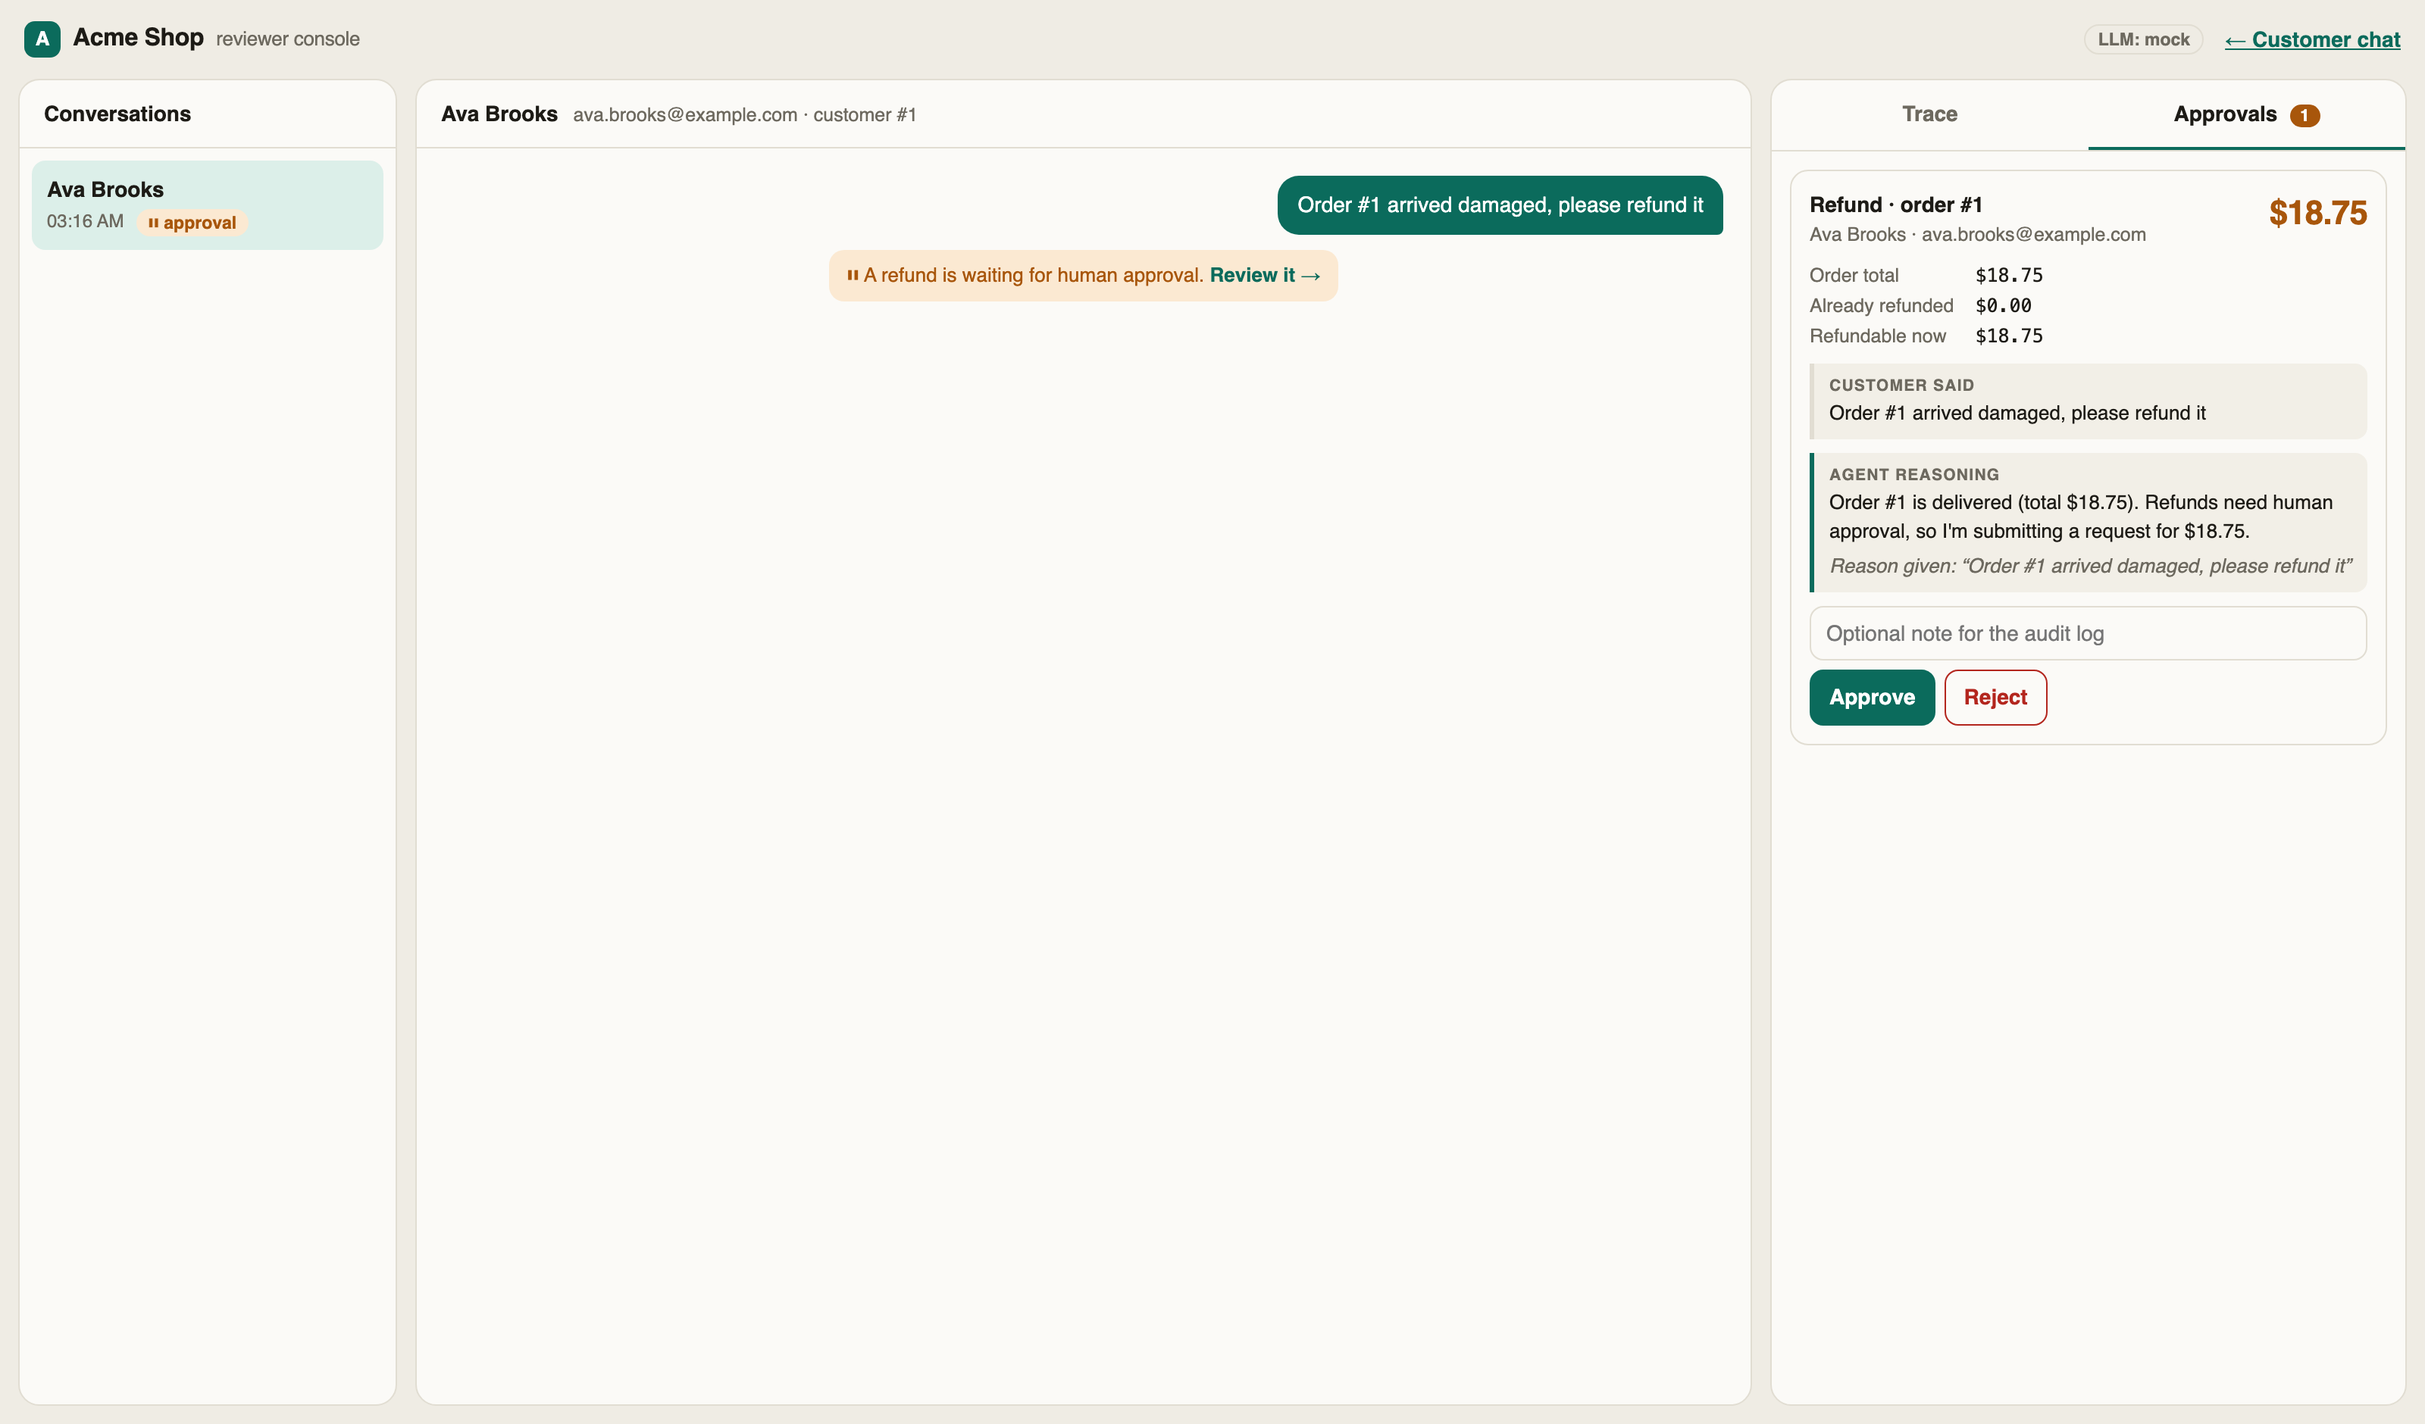
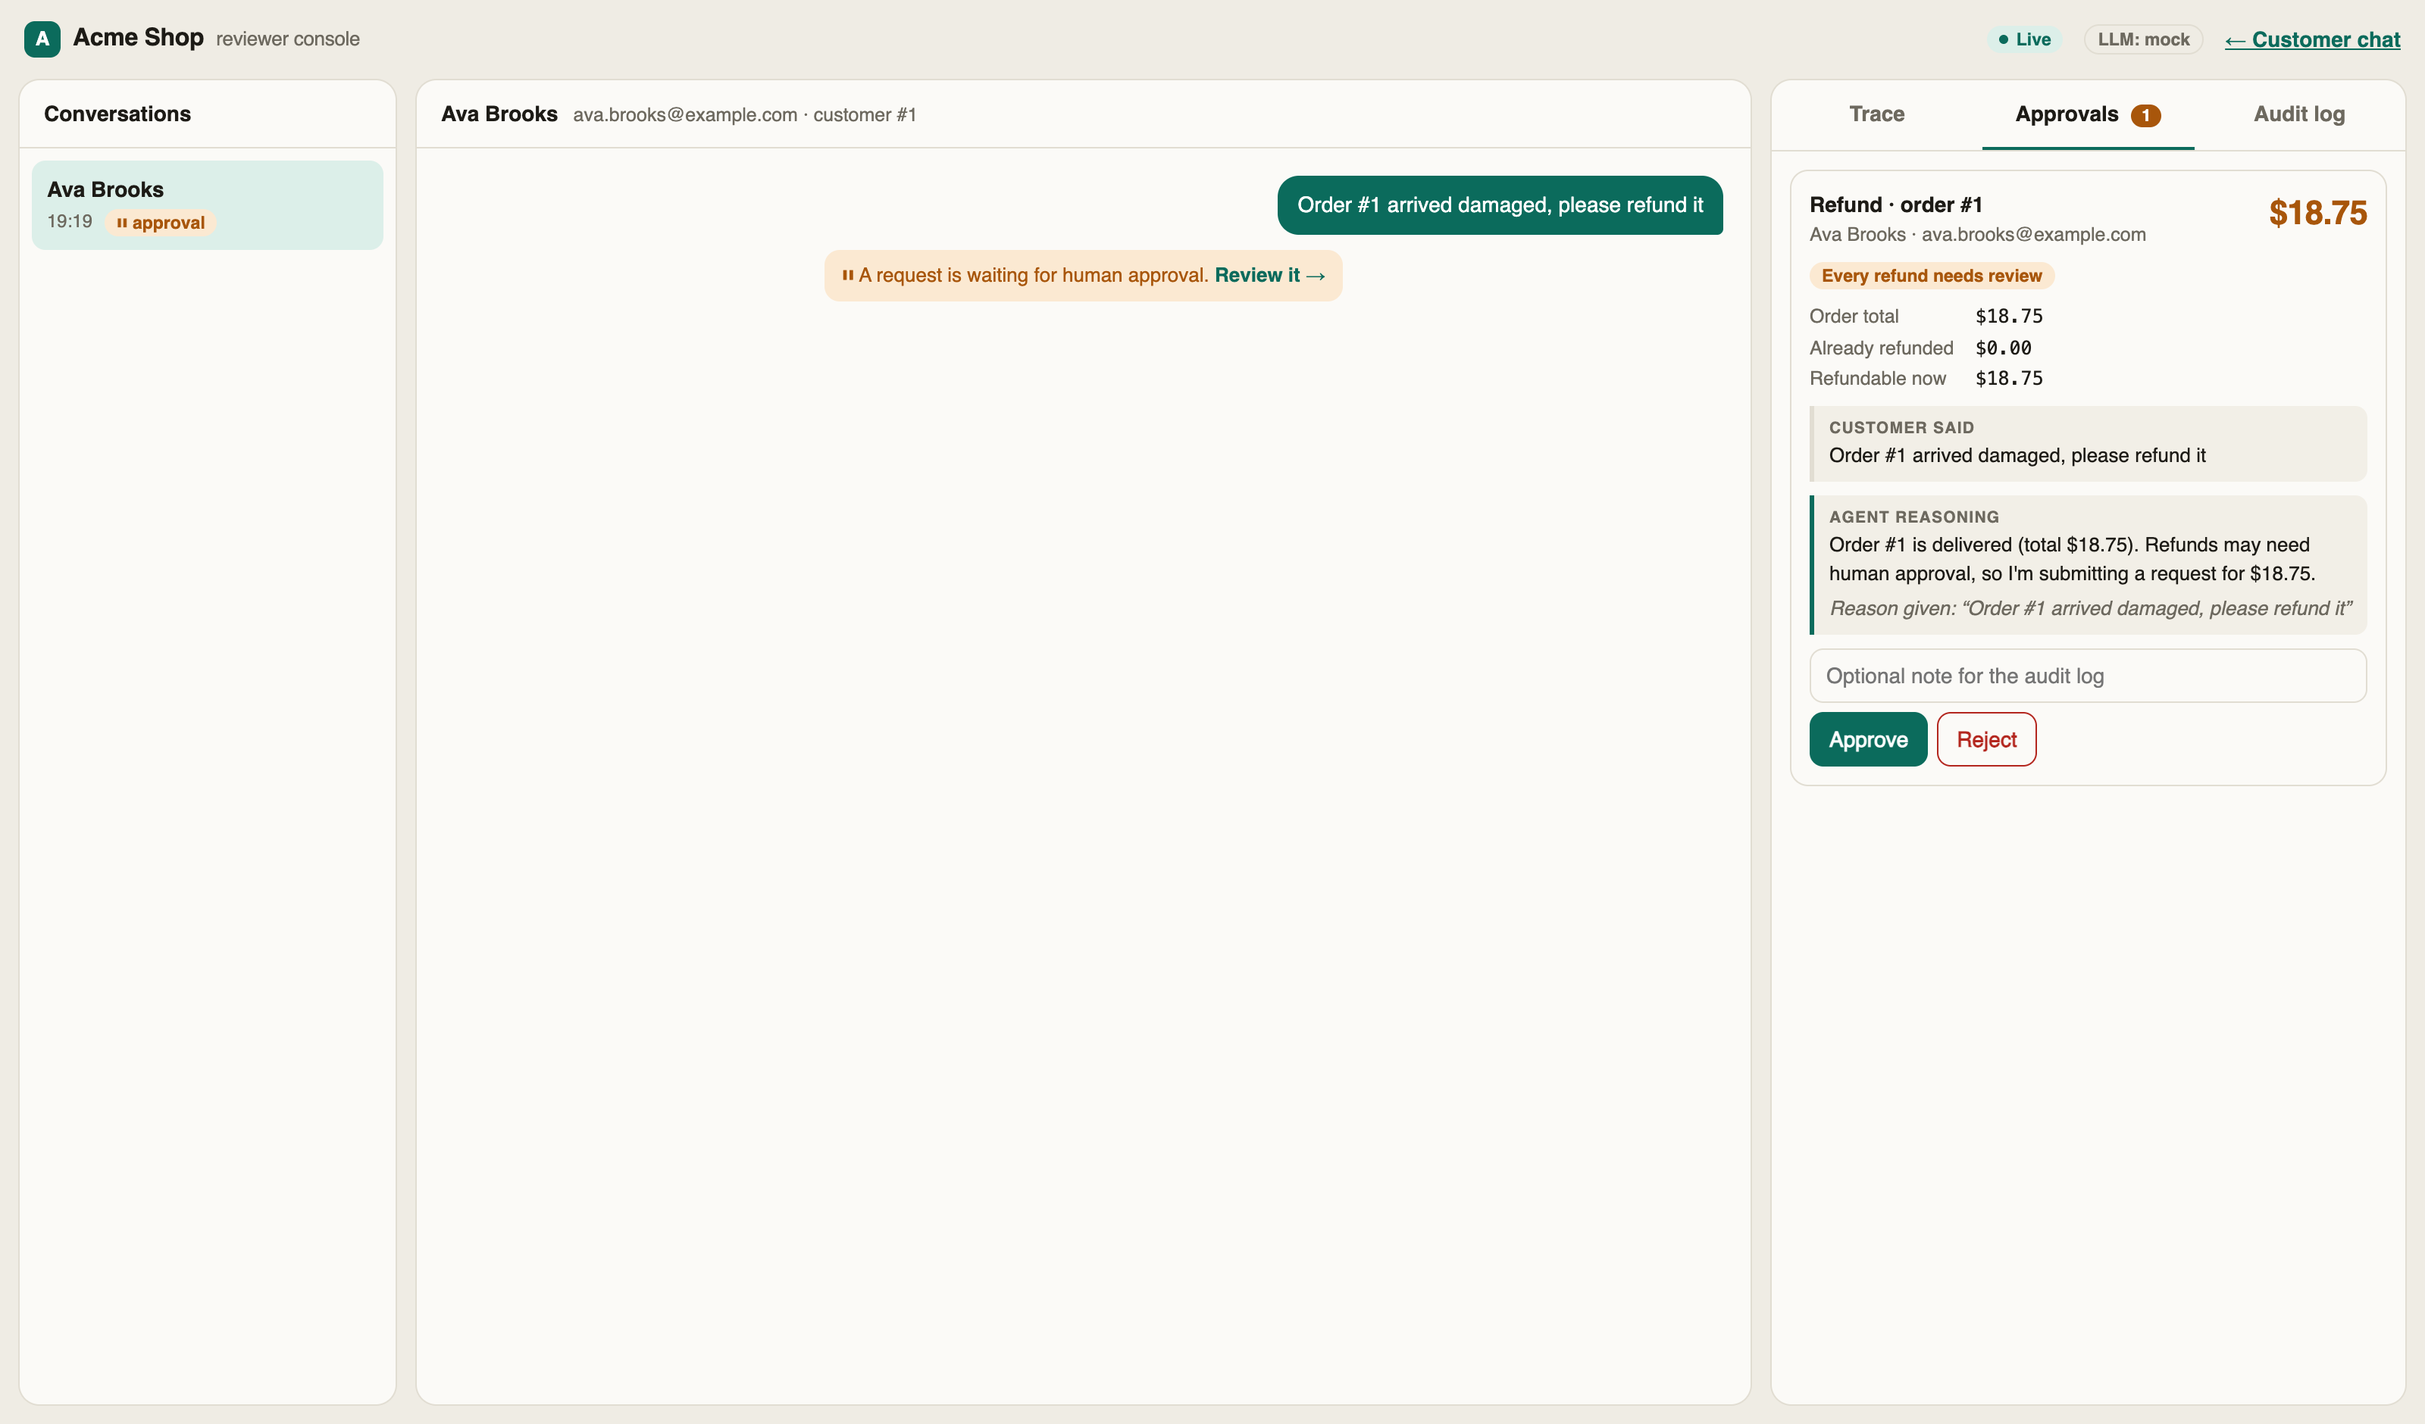
Live-update browser tests, refreshed screenshots and the portfolio README (P.4)
- Playwright: the Live chip, a reviewer's decision reaching an open chat
  without a reload, and the fallback to Polling (streams blocked in the
  browser) and back to Live. approval-flow now asserts only its own customer
  so specs do not depend on order. PLAYWRIGHT_CHANNEL=chrome runs on an
  installed Chrome when Playwright's Chromium is not downloaded.
- README screenshots regenerated from the current UI (they dated from Oct 12);
  scripts/screenshot.mjs honours PLAYWRIGHT_CHANNEL.
- README: "What this demonstrates" (claim, code, what checks it, and what it
  does not prove); the browser-coverage limitation rewritten to match.

diff --git a/apps/web/e2e/live-updates.spec.ts b/apps/web/e2e/live-updates.spec.ts
@@ -1,0 +1,64 @@
+import { expect, test, type Page } from '@playwright/test';
+
+const API = 'http://127.0.0.1:3201';
+
+// The live-update UI: the "Live / Connecting / Polling" chip, a decision showing up in an open chat with no reload, and the
+// fallback to polling when the event streams cannot be opened. Each test uses its own customer so they never share an approval.
+
+const streamChip = (page: Page) => page.locator('.chip.stream').first();
+
+async function startChat(page: Page, customer: string, message: string) {
+  await page.goto('/');
+  await page.locator('select[aria-label="Customer"]').selectOption({ label: customer });
+  await page.getByRole('button', { name: 'New', exact: true }).click();
+  await page.getByLabel('Message').fill(message);
+  await page.getByRole('button', { name: 'Send' }).click();
+  await expect(page.getByText('A reviewer will decide shortly')).toBeVisible({ timeout: 15_000 });
+}
+
+test('with streams open, both pages say Live and a decision reaches the open chat without a reload', async ({ browser }) => {
+  const customer = await (await browser.newContext()).newPage();
+  const reviewer = await (await browser.newContext()).newPage();
+
+  await startChat(customer, 'Ben Carter', 'Order #2 arrived damaged, please refund it');
+  await expect(streamChip(customer)).toContainText('Live', { timeout: 15_000 });
+
+  await reviewer.goto('/reviewer');
+  await expect(streamChip(reviewer)).toContainText('Live', { timeout: 15_000 });
+  await reviewer
+    .getByRole('button', { name: /Ben Carter/ })
+    .first()
+    .click();
+  await expect(reviewer.getByText('pending approval — run paused')).toBeVisible({ timeout: 15_000 });
+  await reviewer.getByRole('tab', { name: /Approvals/ }).click();
+
+  // Mark the page object: a reload would lose this, so finding it again proves the chat updated in place.
+  await customer.evaluate(() => ((window as unknown as { __kept: boolean }).__kept = true));
+  await reviewer.getByRole('button', { name: 'Approve' }).click();
+  await expect(customer.getByText(/your refund of \$[\d.]+ for order #2 was approved and issued/)).toBeVisible({ timeout: 10_000 });
+  expect(await customer.evaluate(() => (window as unknown as { __kept?: boolean }).__kept)).toBe(true);
+  await expect(streamChip(customer)).toContainText('Live');
+});
+
+test('when the event streams cannot be opened the page says Polling, still shows the decision, and goes back to Live', async ({
+  browser,
+  request,
+}) => {
+  const customer = await (await browser.newContext()).newPage();
+  let blocked = true;
+  await customer.route('**/api/**/events', (route) => (blocked ? route.abort() : route.continue()));
+
+  await startChat(customer, 'Chloe Diaz', 'Order #3 arrived damaged, please refund it');
+  await expect(streamChip(customer)).toContainText('Polling', { timeout: 20_000 });
+
+  // Decided through the API, so the only way the page can learn of it is by polling.
+  const pending = (await (await request.get(`${API}/approvals?status=pending`)).json()) as { id: string; customerName: string }[];
+  const mine = pending.find((a) => a.customerName === 'Chloe Diaz');
+  expect(mine).toBeDefined();
+  await request.post(`${API}/approvals/${mine!.id}`, { data: { decision: 'approve' } });
+  await expect(customer.getByText(/for order #3 was approved and issued/)).toBeVisible({ timeout: 15_000 });
+  await expect(streamChip(customer)).toContainText('Polling');
+
+  blocked = false;
+  await expect(streamChip(customer)).toContainText('Live', { timeout: 30_000 });
+});

diff --git a/apps/web/e2e/approval-flow.spec.ts b/apps/web/e2e/approval-flow.spec.ts
@@ -14,7 +14,8 @@ test('a refund request waits for a reviewer, then runs once approved', async ({ 
   await expect(customer.getByText('A reviewer will decide shortly')).toBeVisible({ timeout: 15_000 });
 
   // Nothing has been refunded while it waits.
-  const waiting = await (await request.get(`${API}/approvals?status=pending`)).json();
+  const ofAva = (rows: { customerName: string }[]) => rows.filter((a) => a.customerName === 'Ava Brooks');
+  const waiting = ofAva(await (await request.get(`${API}/approvals?status=pending`)).json());
   expect(waiting).toHaveLength(1);
   expect(waiting[0]).toMatchObject({ toolName: 'issue_refund', customerName: 'Ava Brooks', status: 'pending_approval' });
 
@@ -29,7 +30,6 @@ test('a refund request waits for a reviewer, then runs once approved', async ({ 
   await reviewer.getByRole('button', { name: 'Approve' }).click();
 
   await expect(customer.getByText(/your refund of \$[\d.]+ for order #1 was approved and issued/)).toBeVisible({ timeout: 15_000 });
-  const approved = await (await request.get(`${API}/approvals?status=approved`)).json();
-  expect(approved).toHaveLength(1);
-  expect(await (await request.get(`${API}/approvals?status=pending`)).json()).toHaveLength(0);
+  expect(ofAva(await (await request.get(`${API}/approvals?status=approved`)).json())).toHaveLength(1);
+  expect(ofAva(await (await request.get(`${API}/approvals?status=pending`)).json())).toHaveLength(0);
 });

diff --git a/apps/web/playwright.config.ts b/apps/web/playwright.config.ts
@@ -22,7 +22,8 @@ export default defineConfig({
   workers: 1,
   reporter: process.env.CI ? [['list'], ['html', { open: 'never' }]] : 'list',
   use: { baseURL: `http://127.0.0.1:${WEB_PORT}`, trace: 'retain-on-failure' },
-  projects: [{ name: 'chromium', use: { browserName: 'chromium' } }],
+  // PLAYWRIGHT_CHANNEL=chrome runs on an installed Chrome when Playwright's own Chromium is not downloaded.
+  projects: [{ name: 'chromium', use: { browserName: 'chromium', channel: process.env.PLAYWRIGHT_CHANNEL || undefined } }],
   webServer: [
     {
       name: 'api',

diff --git a/README.md b/README.md
@@ -24,6 +24,22 @@ A small, framework-free **tool-calling agent** for a fictional store, "Acme Shop
 - **Everything is a trace.** Every run stores each step: role, content, tool, args, result, latency and tokens.
 - **Offline by default.** A rule-based mock planner makes the demo, tests and CI deterministic and free; real providers are plain `fetch` adapters behind a one-method interface.
 
+## What this demonstrates
+
+| Claim | Where | What checks it |
+| --- | --- | --- |
+| A useful agent needs no framework: an explicit loop, one provider interface, three adapters | [runner.ts](apps/api/src/agent/runner.ts), [providers/](apps/api/src/providers) | Loop tests with scripted and mock models; adapters against mocked `fetch` and a local server that speaks each wire format |
+| The model is not trusted: ownership, amounts and approval routing are code | [tools.ts](apps/api/src/agent/tools.ts), [guardrails.ts](apps/api/src/agent/guardrails.ts), [policy.ts](apps/api/src/agent/policy.ts) | 55 recorded eval cases in 8 categories, including a model that **obeys** an injection; shared invariants after every case; eight deliberate defects each made cases fail |
+| Provider replies are network data | [providers/wire.ts](apps/api/src/providers/wire.ts) | Malformed-body tests; 9 of them crashed the old adapters with a raw `TypeError` |
+| Risky actions wait for a human (or two), and every decision is audited | `runner.decide`, `approval_events`, `action_approvals` | End-to-end tests on real Postgres, including a nine-reviewer race that must execute once |
+| Side effects are idempotent and crashes are normal | unique indexes, claim-then-execute, crash recovery sweep | Replay, double-approval and killed-process tests on real Postgres |
+| The schema is versioned and safe to roll out | [db/migrations/](apps/api/src/db/migrations) | Six concurrent starters apply it once; real schemas of four earlier commits upgrade with data intact and equal a new database; measured on 841 MB |
+| Live UI that degrades gracefully | SSE `StreamBus` on `LISTEN`, [useEventStream.ts](apps/web/src/lib/useEventStream.ts) | Real Postgres stream tests; Playwright: Live chip, update without reload, Polling fallback and recovery |
+| Operable: request ids, JSON logs, live/ready health, a shutdown that does not hang | [logging/](apps/api/src/logging), [health.controller.ts](apps/api/src/http/health.controller.ts) | Unit and end-to-end tests; run in containers |
+| Reproducible: lint, format, typed linting with no `any`, coverage floors, Docker | CI: `verify`, `lint`, `web-e2e`, `docker` | Each gate was shown to fail on a deliberate violation |
+
+**What it does not demonstrate:** that a real model chooses well or resists an injection (the eval cases script the model; live runs are the separate `smoke:llm` check, which needs your key and has not been run here), that Slack or a particular mail provider accepts the notifications, or behaviour under production load. See [Known limitations](#known-limitations).
+
 ## Architecture
 
 ```mermaid
@@ -436,7 +452,7 @@ This is a **starter, not a production service**. What is and isn't protected:
 - **There is no global cap on open streams.** Only the per-conversation and reviewer caps exist, and `POST /conversations` is unauthenticated (though throttled), so a client can open many conversations and hold a stream on each.
 - **Many tabs can queue requests on plain HTTP/1.1.** Each open tab holds one of a browser's ~6 connections per host for its stream, so with many tabs other requests may wait for a free one. HTTP/2 avoids this.
 - **Customer login browser check.** The sign-in form, the emailed link's landing page, a chat as the signed-in customer, reload, log out and a reused link were checked by hand in Chrome against a throwaway database with the mock LLM. The "Sign out everywhere" button, the phone layout and a real mail provider were not (the API side is covered by tests).
-- **The manual browser check is not automated.** The live-update UI (the top-bar chip, chat and console refresh, the polling fallback) and the reviewer login UI have no browser test, so check them by hand after changing them. When the accounts console was built, sign-in, the live stream under the cookie, "0 of 2" to "1 of 2 approvals" with Approve disabled for the approver, and log out were checked by hand in Chrome against a throwaway database; the Reviewers tab actions, the change-password dialog and a second reviewer completing an approval in the browser were not (the API behaviour is covered by tests).
+- **Browser coverage is two Playwright files, not a UI suite.** `approval-flow` and `live-updates` (open demo mode) cover the refund round trip, the Live chip, a decision reaching an open chat without a reload, and the fallback to Polling (event streams blocked in the browser) and back to Live. A scripted run in Chrome also checked the reviewer sign-in form (disabled button, wrong password shows an error and clears the field, sign-in, session survives a reload, log out ends it) and that `/` and `/reviewer` have no horizontal scroll at 390 px; those last checks are **not** in CI because accounts mode needs a reviewer in the database, which would turn the demo mode of the other tests off. Not checked in a browser: the Reviewers tab actions, the change-password dialog, a second reviewer completing a four-eyes approval, and customer login beyond the earlier hand check (the API behaviour is covered by tests).
 - **An open event stream is authenticated when it opens.** If the reviewer's session ends or they are deactivated while `/events` is open, that stream keeps delivering signals until it closes (they carry only an event kind and a conversation id, no content) and the console falls back to its normal `401` handling on the next fetch.
 - **Two account details are per process.** The "any reviewers?" answer is cached in each API process (up to 5 s to notice a first reviewer created elsewhere), and the per-client request limits, including the login limit, are counted in memory. The account lockout counter is in the database, so it holds across replicas.
 - **A database restart is survived, not hidden.** A pooled connection that the server ends while it is idle is logged as a `Database` warning and replaced on the next query (before this, pg's unhandled `error` event exited the whole API). Requests that were mid-query fail, `/health/ready` answers `503` until the database is back, and the live-update listener reconnects and sends a `resync`. Tested by killing an idle connection from a second session; a full Postgres restart under load was not.

diff --git a/TODO.md b/TODO.md
@@ -56,6 +56,6 @@
 ## Portfolio plan
 Work that only matters for presenting the project; everything else is tracked in the phases above.
 - [x] P.1 Land the finished Phase 4 work on `main` (4.1 SSE, 4.6 tools, 4.4 notifications), in order, one PR each.
-- [ ] P.4 Portfolio README: architecture diagram, screenshots/GIF, "what this demonstrates", plus the manual browser check of the UI.
+- [x] P.4 Portfolio README: architecture diagram, screenshots/GIF, "what this demonstrates", plus the manual browser check of the UI. (Done as: screenshots regenerated from the current UI, no GIF (no encoder available); the browser check was scripted in Chrome and the live-update parts are now Playwright tests, see README "Known limitations".)
 
 Suggested order for the open phase items: 5.4 (Docker), 5.1 + 5.2 (lint and web tests), P.4, 4.5 (reviewer accounts and four-eyes, then customer login), 5.8 (evals), 5.6, 5.5, 5.3 + 5.7, 3.6 (needs a live `ANTHROPIC_API_KEY`).
